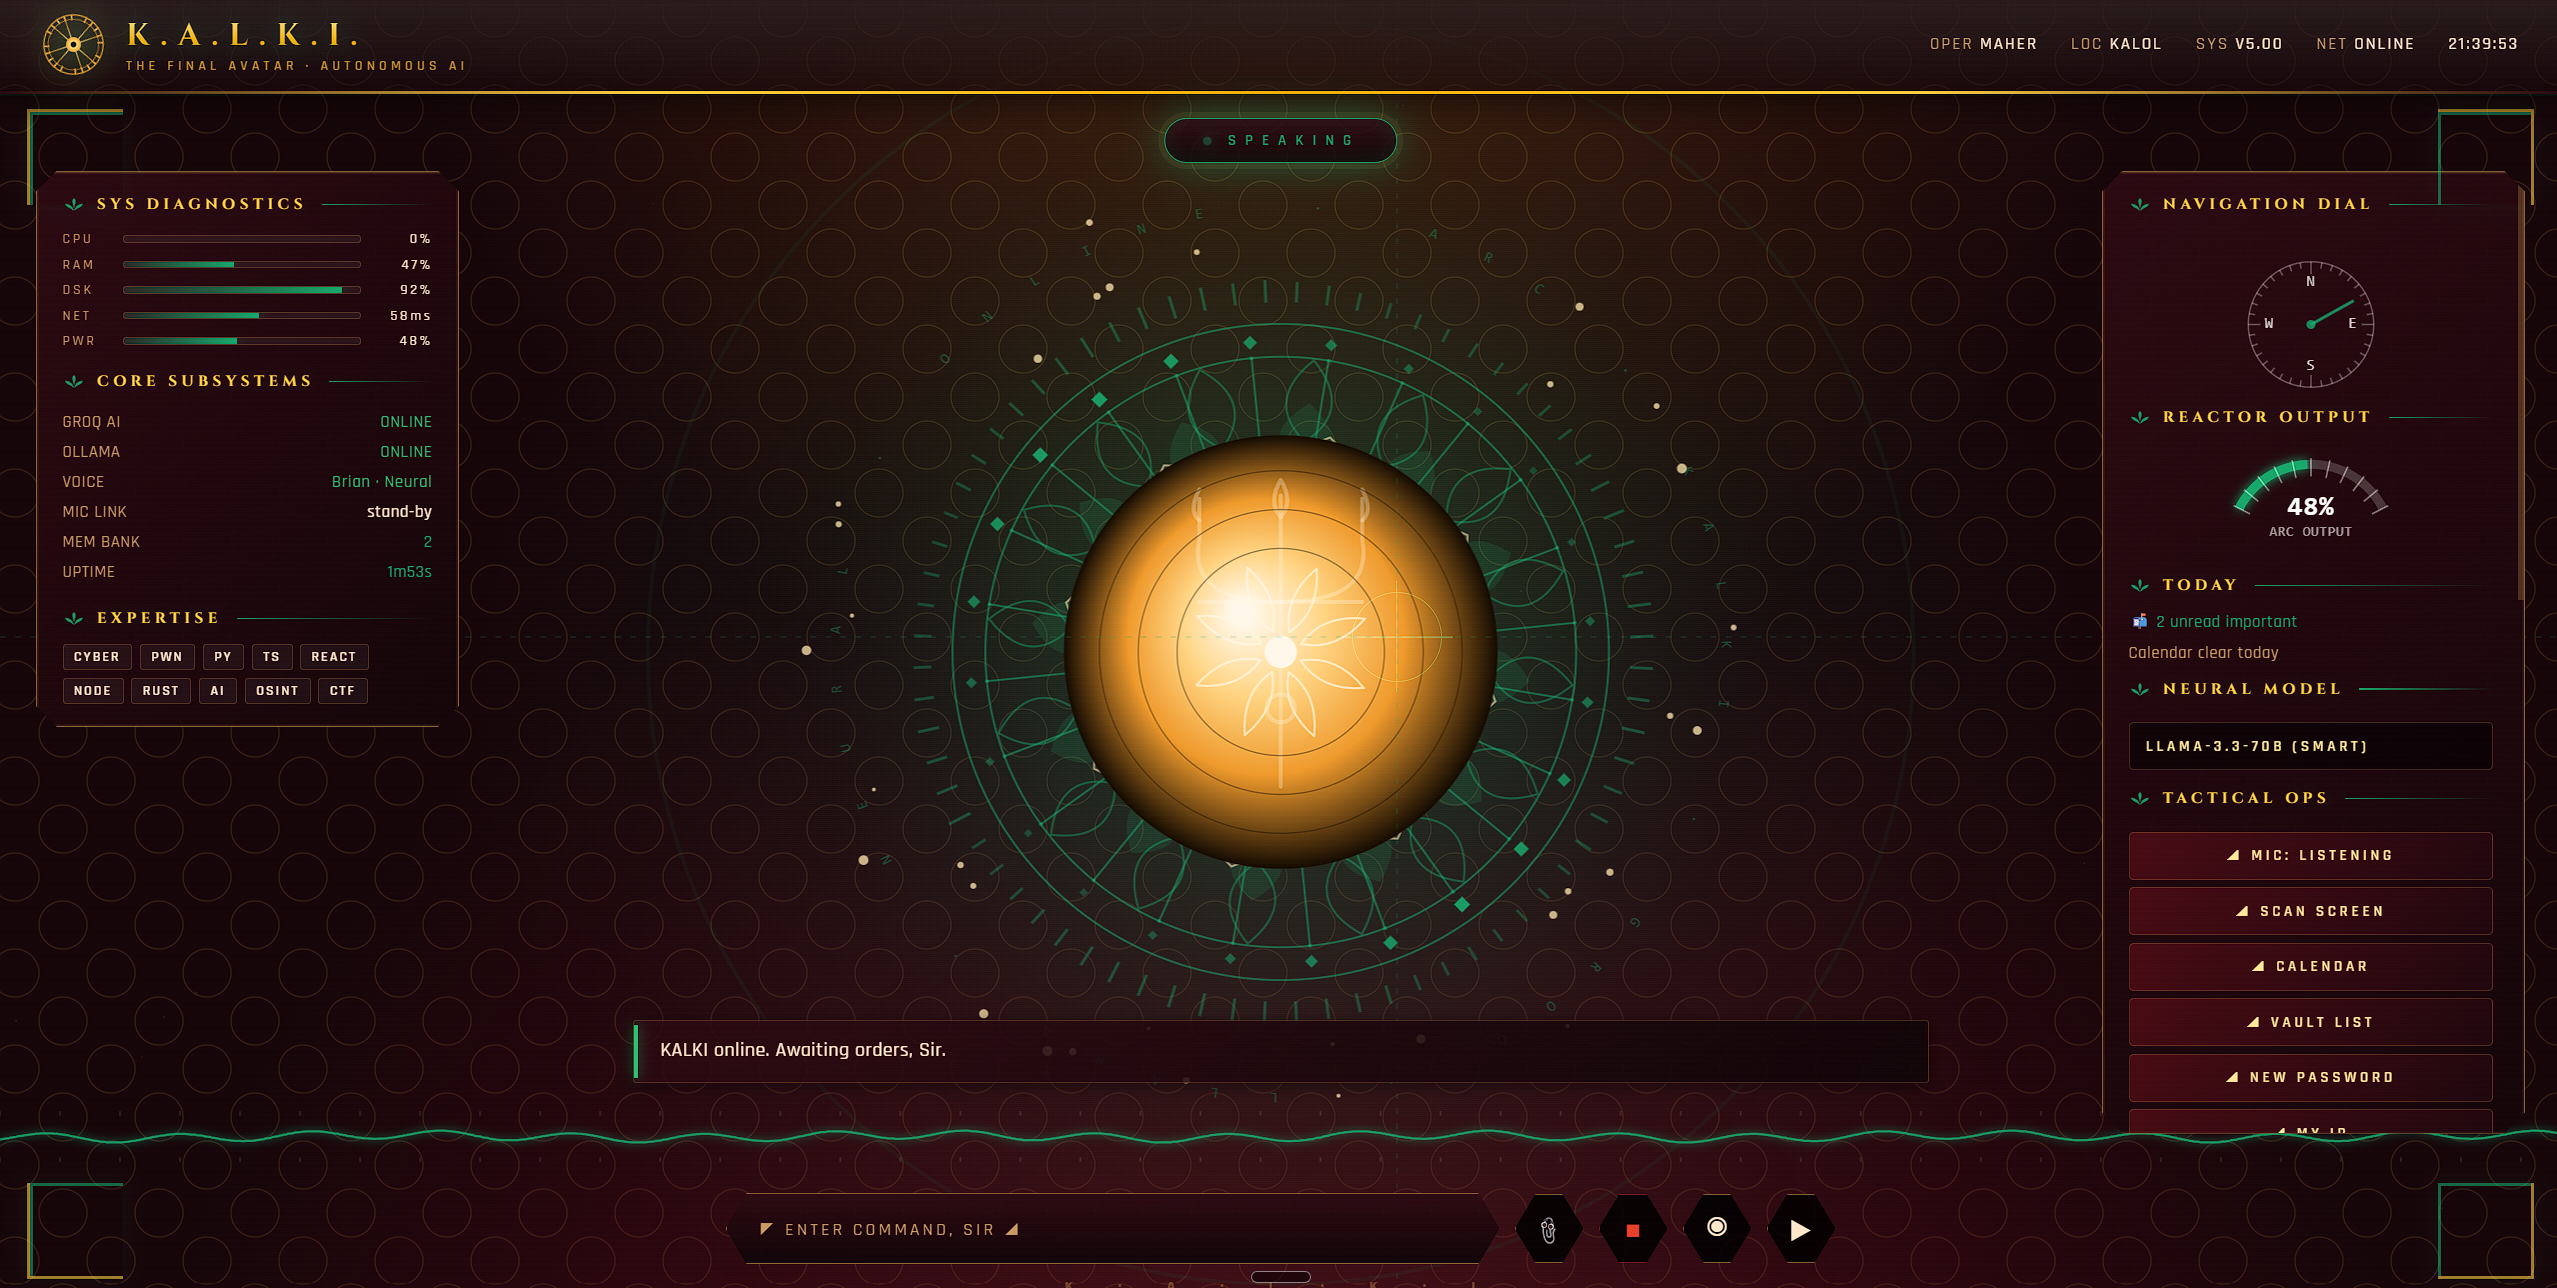
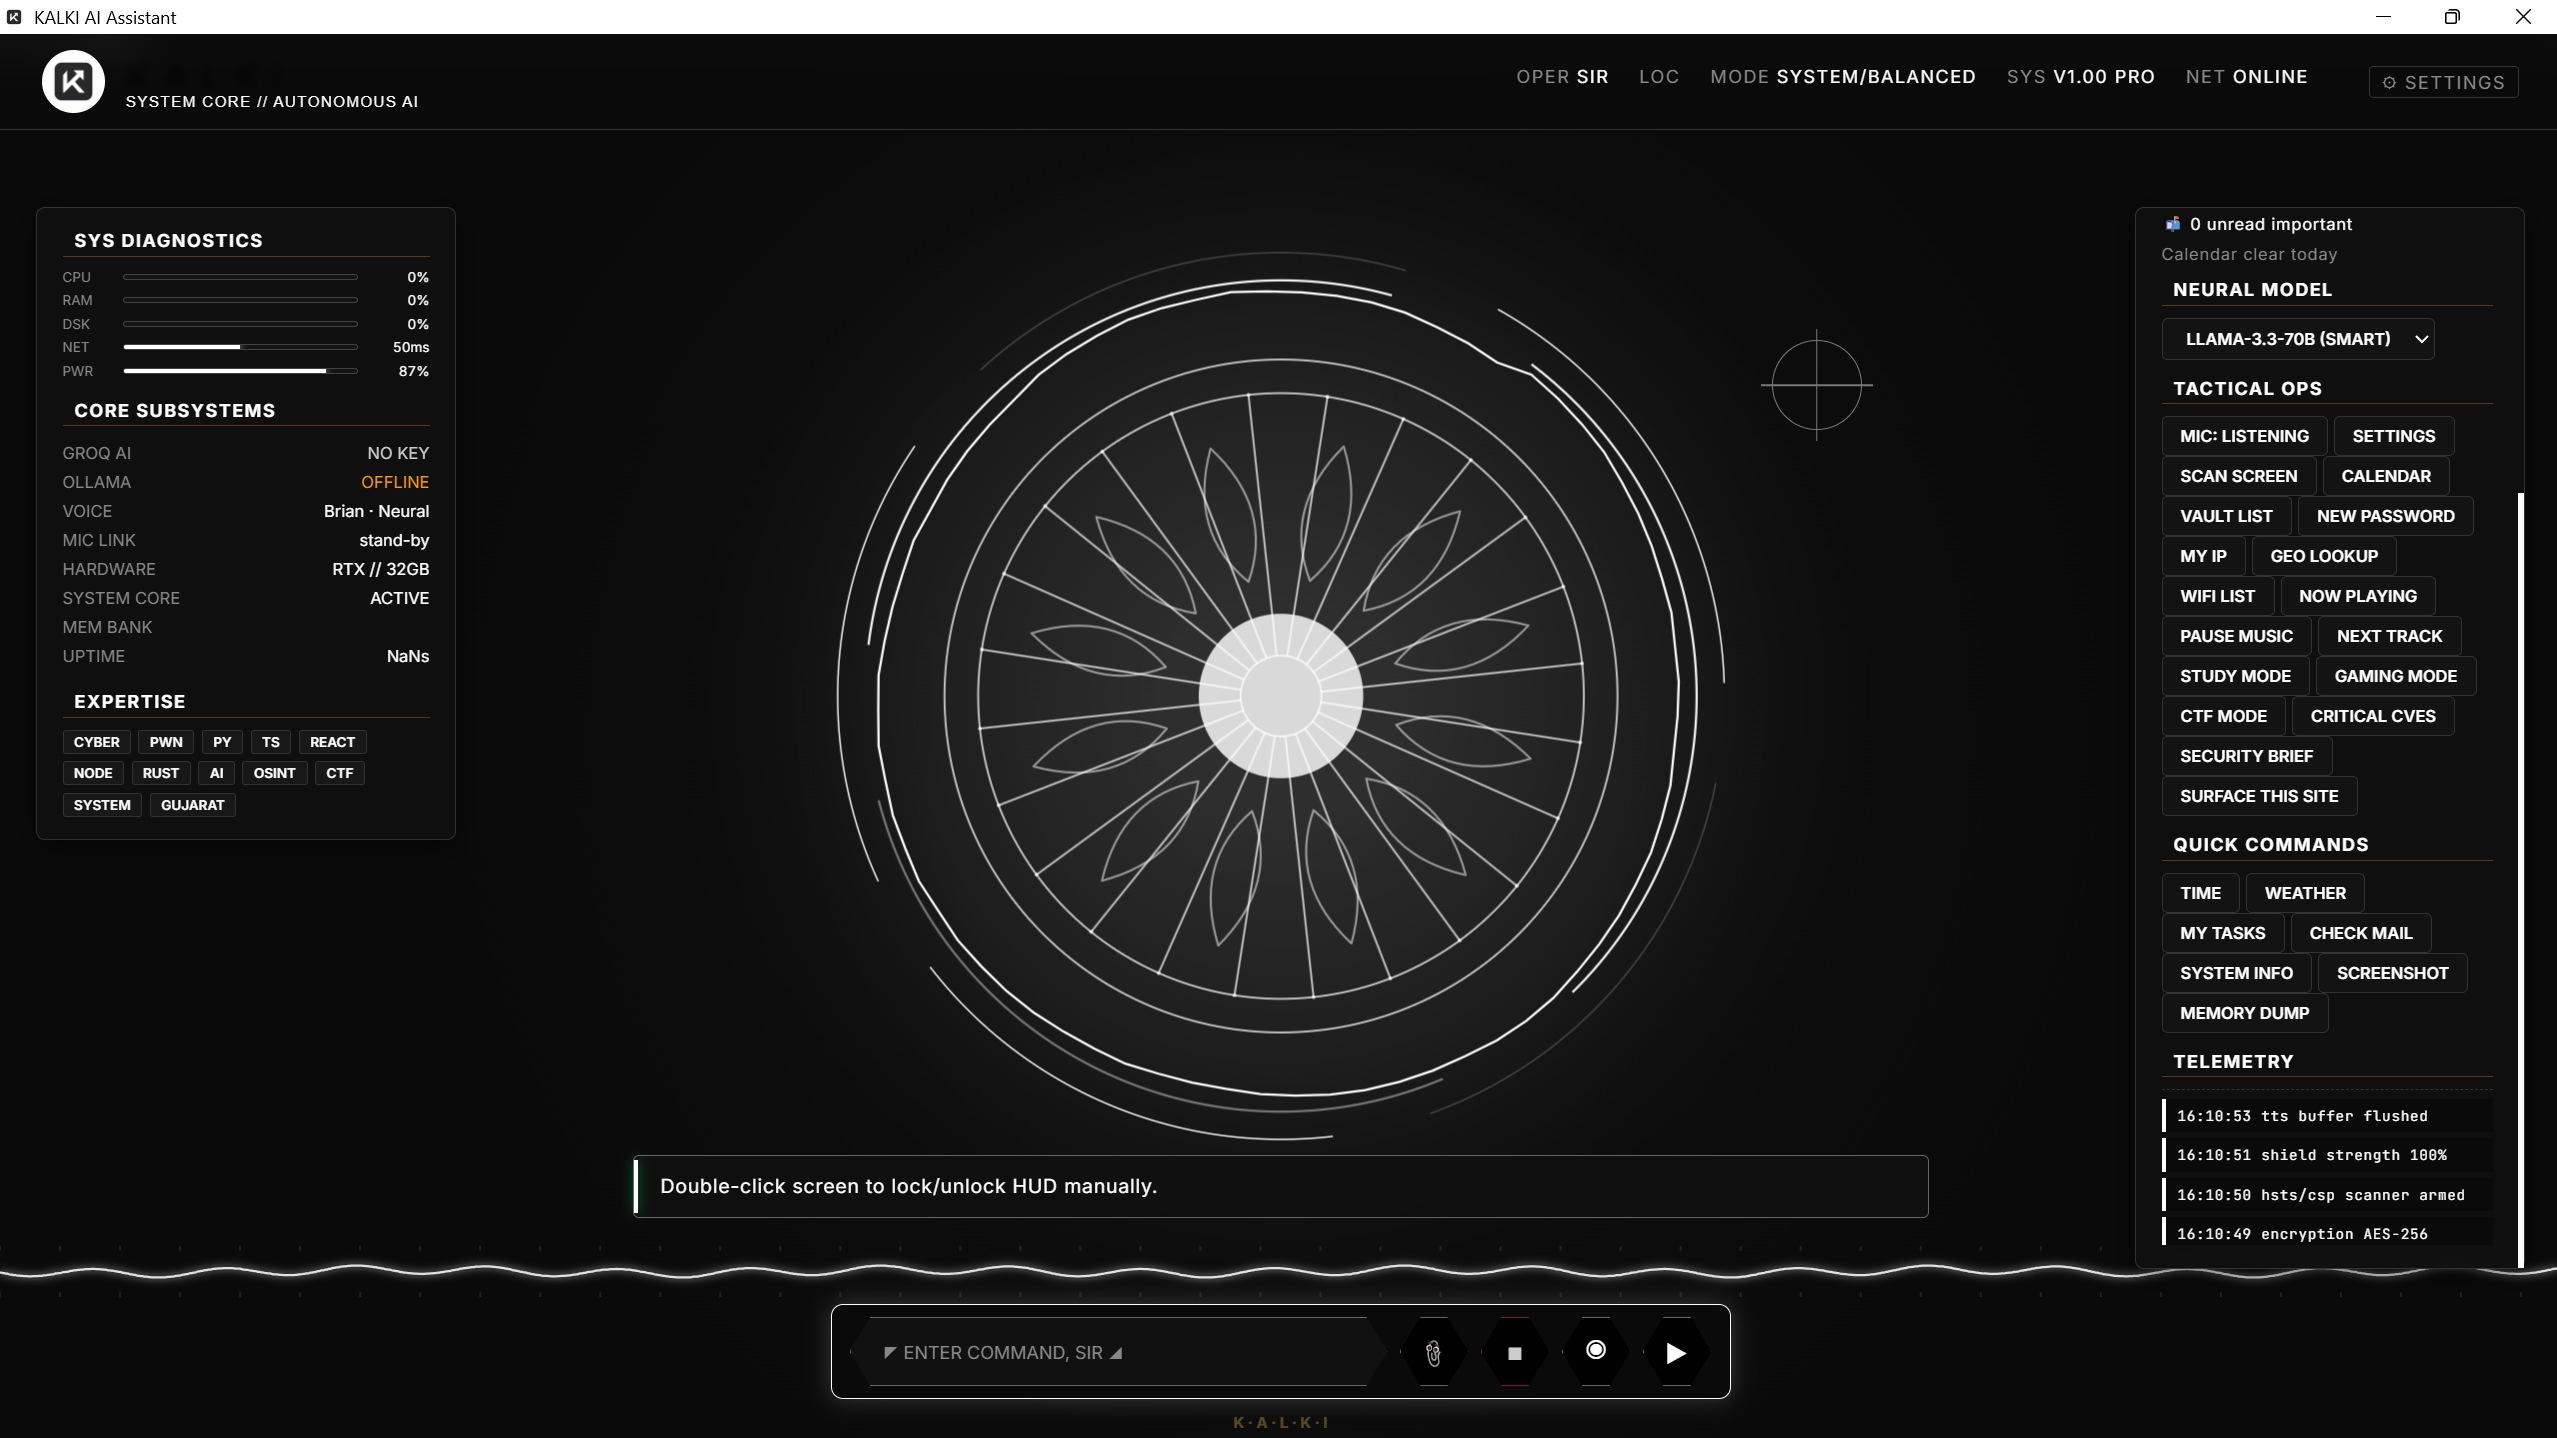
docs: add new UI screenshots to showcase

diff --git a/README.md b/README.md
@@ -39,7 +39,9 @@ KALKI is an autonomous personal assistant built from scratch in Python and a sin
 
 ## Showcase
 
-*(Please upload new screenshots to the screenshots/ folder to display them here)*
+<div align="center">
+  <img src="screenshots/kalki-hud.png" width="98%" alt="Main HUD">
+</div>
 
 <br>
 